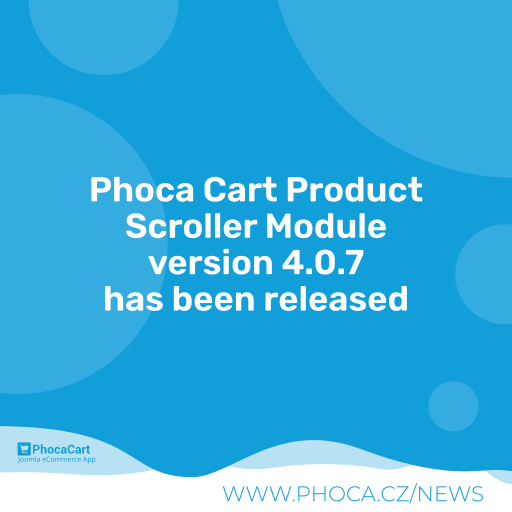
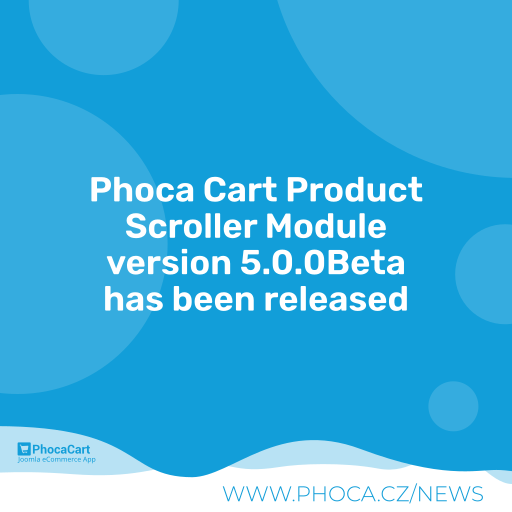
4.0.9

Changed region(s): [[0.1875, 0.4688, 0.8125, 0.5625]]

diff --git a/tmpl/default.php b/tmpl/default.php
@@ -6,12 +6,23 @@
  * @copyright Copyright (C) Jan Pavelka www.phoca.cz
  * @license http://www.gnu.org/copyleft/gpl.html GNU/GPL
  */
+
+use Joomla\CMS\Router\Route;
+use Joomla\CMS\Layout\FileLayout;
+use Joomla\CMS\Uri\Uri;
+
 defined('_JEXEC') or die;
 
-$layoutV	= new JLayoutFile('button_product_view', null, array('component' => 'com_phocacart'));
-$layoutP	= new JLayoutFile('product_price', null, array('component' => 'com_phocacart'));
-$layoutR	= new JLayoutFile('product_rating', null, array('component' => 'com_phocacart'));
+$layoutV	= new FileLayout('button_product_view', null, array('component' => 'com_phocacart'));
+$layoutP	= new FileLayout('product_price', null, array('component' => 'com_phocacart'));
+$layoutR	= new FileLayout('product_rating', null, array('component' => 'com_phocacart'));
 
+
+// Native lazy load
+$attributeLazyLoad = '';
+if ($pc['lazy_load_category_items'] == 2) {
+    $attributeLazyLoad = isset($s['a']['lazyload']) && $s['a']['lazyload'] != '' ? $s['a']['lazyload'] : '';
+}
 
 echo '<div class="phProductScrollerModuleBox ph-product-scroller-module-box'.$moduleclass_sfx .'">';
 
@@ -23,7 +34,7 @@ if (!empty($products)) {
 
 		echo '<div class="swiper-slide">';// ph-mod-product-scroller-swiper-slide
 		/*if ($v->image != '') {
-			echo '<div class="ph-brand-name"><img src="'.JURI::base(true).'/' . $v->image.'" alt="'.htmlspecialchars($v->title).'" /></div>';
+			echo '<div class="ph-brand-name"><img src="'.URI::base(true).'/' . $v->image.'" alt="'.htmlspecialchars($v->title).'" /></div>';
 		} else {
 			echo '<div class="ph-brand-name">'.$v->title.'</div>';
 		}*/
@@ -34,10 +45,11 @@ echo '<div class="'.$s['c']['thumbnail'].' ph-thumbnail ph-thumbnail-c ph-item g
 echo '<div class="ph-item-content grid">';
 
 $image = PhocacartImage::getThumbnailName($t['pathitem'], $v->image, 'medium');
-$link = JRoute::_(PhocacartRoute::getItemRoute($v->id, $v->catid, $v->alias, $v->catalias));
+$link = Route::_(PhocacartRoute::getItemRoute($v->id, $v->catid, $v->alias, $v->catalias));
 echo '<a href="'.$link.'">';
 if (isset($image->rel) && $image->rel != '') {
-	echo '<img src="'.JURI::base(true).'/'.$image->rel.'" alt="'.$v->title.'" class="'.$s['c']['img-responsive'].' ph-image"';
+	echo '<img src="'.Uri::base(true).'/'.$image->rel.'" alt="'.$v->title.'" class="'.$s['c']['img-responsive']. ' ph-image"';
+	echo ' '. $attributeLazyLoad;
 	echo ' />';
 }
 echo '</a>';

diff --git a/mod_phocacart_product_scroller.php b/mod_phocacart_product_scroller.php
@@ -7,17 +7,18 @@
  * @license http://www.gnu.org/copyleft/gpl.html GNU/GPL
  */
 
-use Joomla\CMS\Factory;
-use Joomla\CMS\Helper\ModuleHelper;
-
 defined('_JEXEC') or die;// no direct access
+use Joomla\CMS\Component\ComponentHelper;
+use Joomla\CMS\Factory;
+use Joomla\CMS\Language\Text;
+use Joomla\CMS\Helper\ModuleHelper;
 
 
 $app = Factory::getApplication();
 
-if (!JComponentHelper::isEnabled('com_phocacart', true)) {
+if (!ComponentHelper::isEnabled('com_phocacart', true)) {
 
-	$app->enqueueMessage(JText::_('Phoca Cart Error'), JText::_('Phoca Cart is not installed on your system'), 'error');
+	$app->enqueueMessage(Text::_('Phoca Cart Error'), Text::_('Phoca Cart is not installed on your system'), 'error');
 	return;
 }
 
@@ -59,8 +60,9 @@ $p['slides_per_view_576']		= $params->get( 'slides_per_view_576', 2 );
 $p['slides_per_view_768']		= $params->get( 'slides_per_view_768', 4 );
 $p['slides_per_view_992']		= $params->get( 'slides_per_view_992', 5 );
 
-$pCom								= JComponentHelper::getParams( 'com_phocacart' );
+$pCom								= ComponentHelper::getParams( 'com_phocacart' );
 $pc['display_star_rating']			= $pCom->get( 'display_star_rating', 0 );
+$pc['lazy_load_category_items']			= $pCom->get( 'lazy_load_category_items', 0 );
 
 $rights							= new PhocacartAccessRights();
 $p['can_display_price']	= $rights->canDisplayPrice();

diff --git a/README.MD b/README.MD
@@ -60,7 +60,11 @@ Phoca Cart Product Scroller Module - a Joomla! CMS module which displays product
 
 ## Version (Joomla! 4.x)
 
-4.0.7
+4.0.9
+
+## Version (Joomla! 5.x)
+
+5.0.0Beta
 
 
 
@@ -71,3 +75,17 @@ GNU/GPL
 
 
 This project is open source project - feel free to contribute! Thank you.
+
+
+
+## Social Media
+
+- [Phoca on Facebook](https://www.facebook.com/Phoca.cz)
+
+- [Phoca on X (Twitter)](https://twitter.com/PhocaCz)
+
+- [Phoca on YouTube](https://www.youtube.com/user/phocavideos)
+
+- [Phoca on GitHub](https://github.com/PhocaCz)
+
+- [Phoca on Reddit](https://www.reddit.com/user/PhocaCz)
